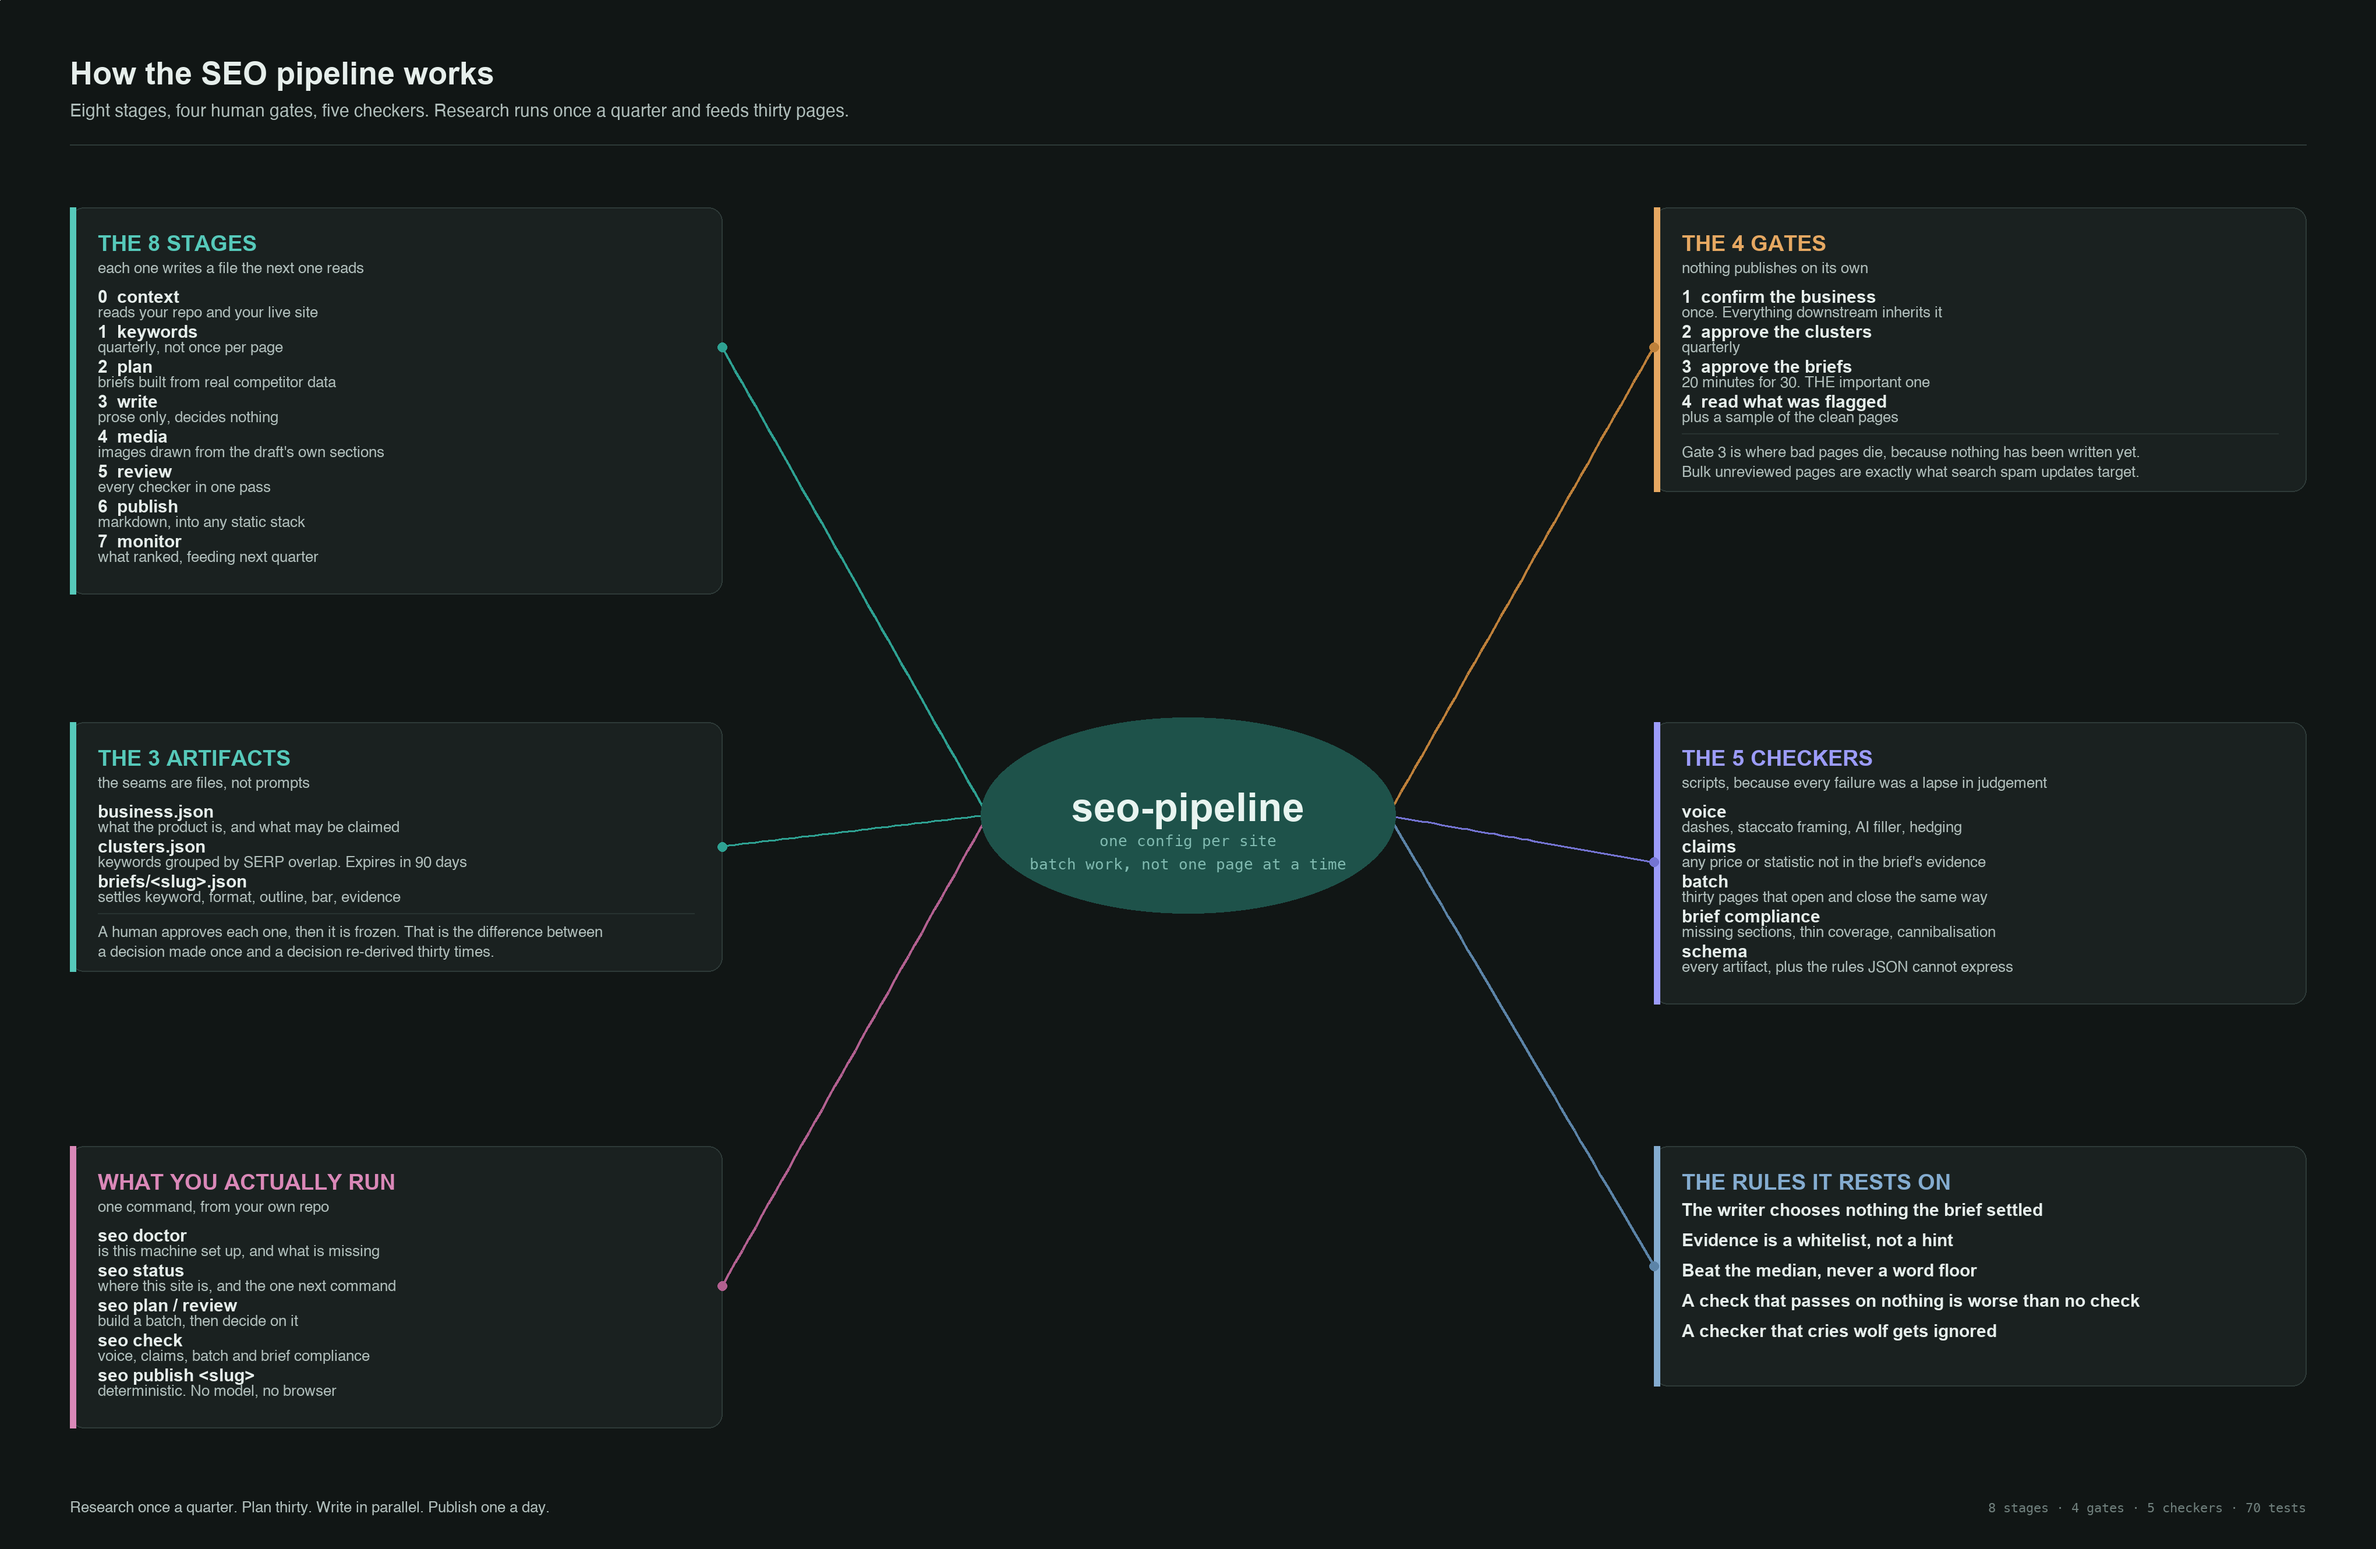
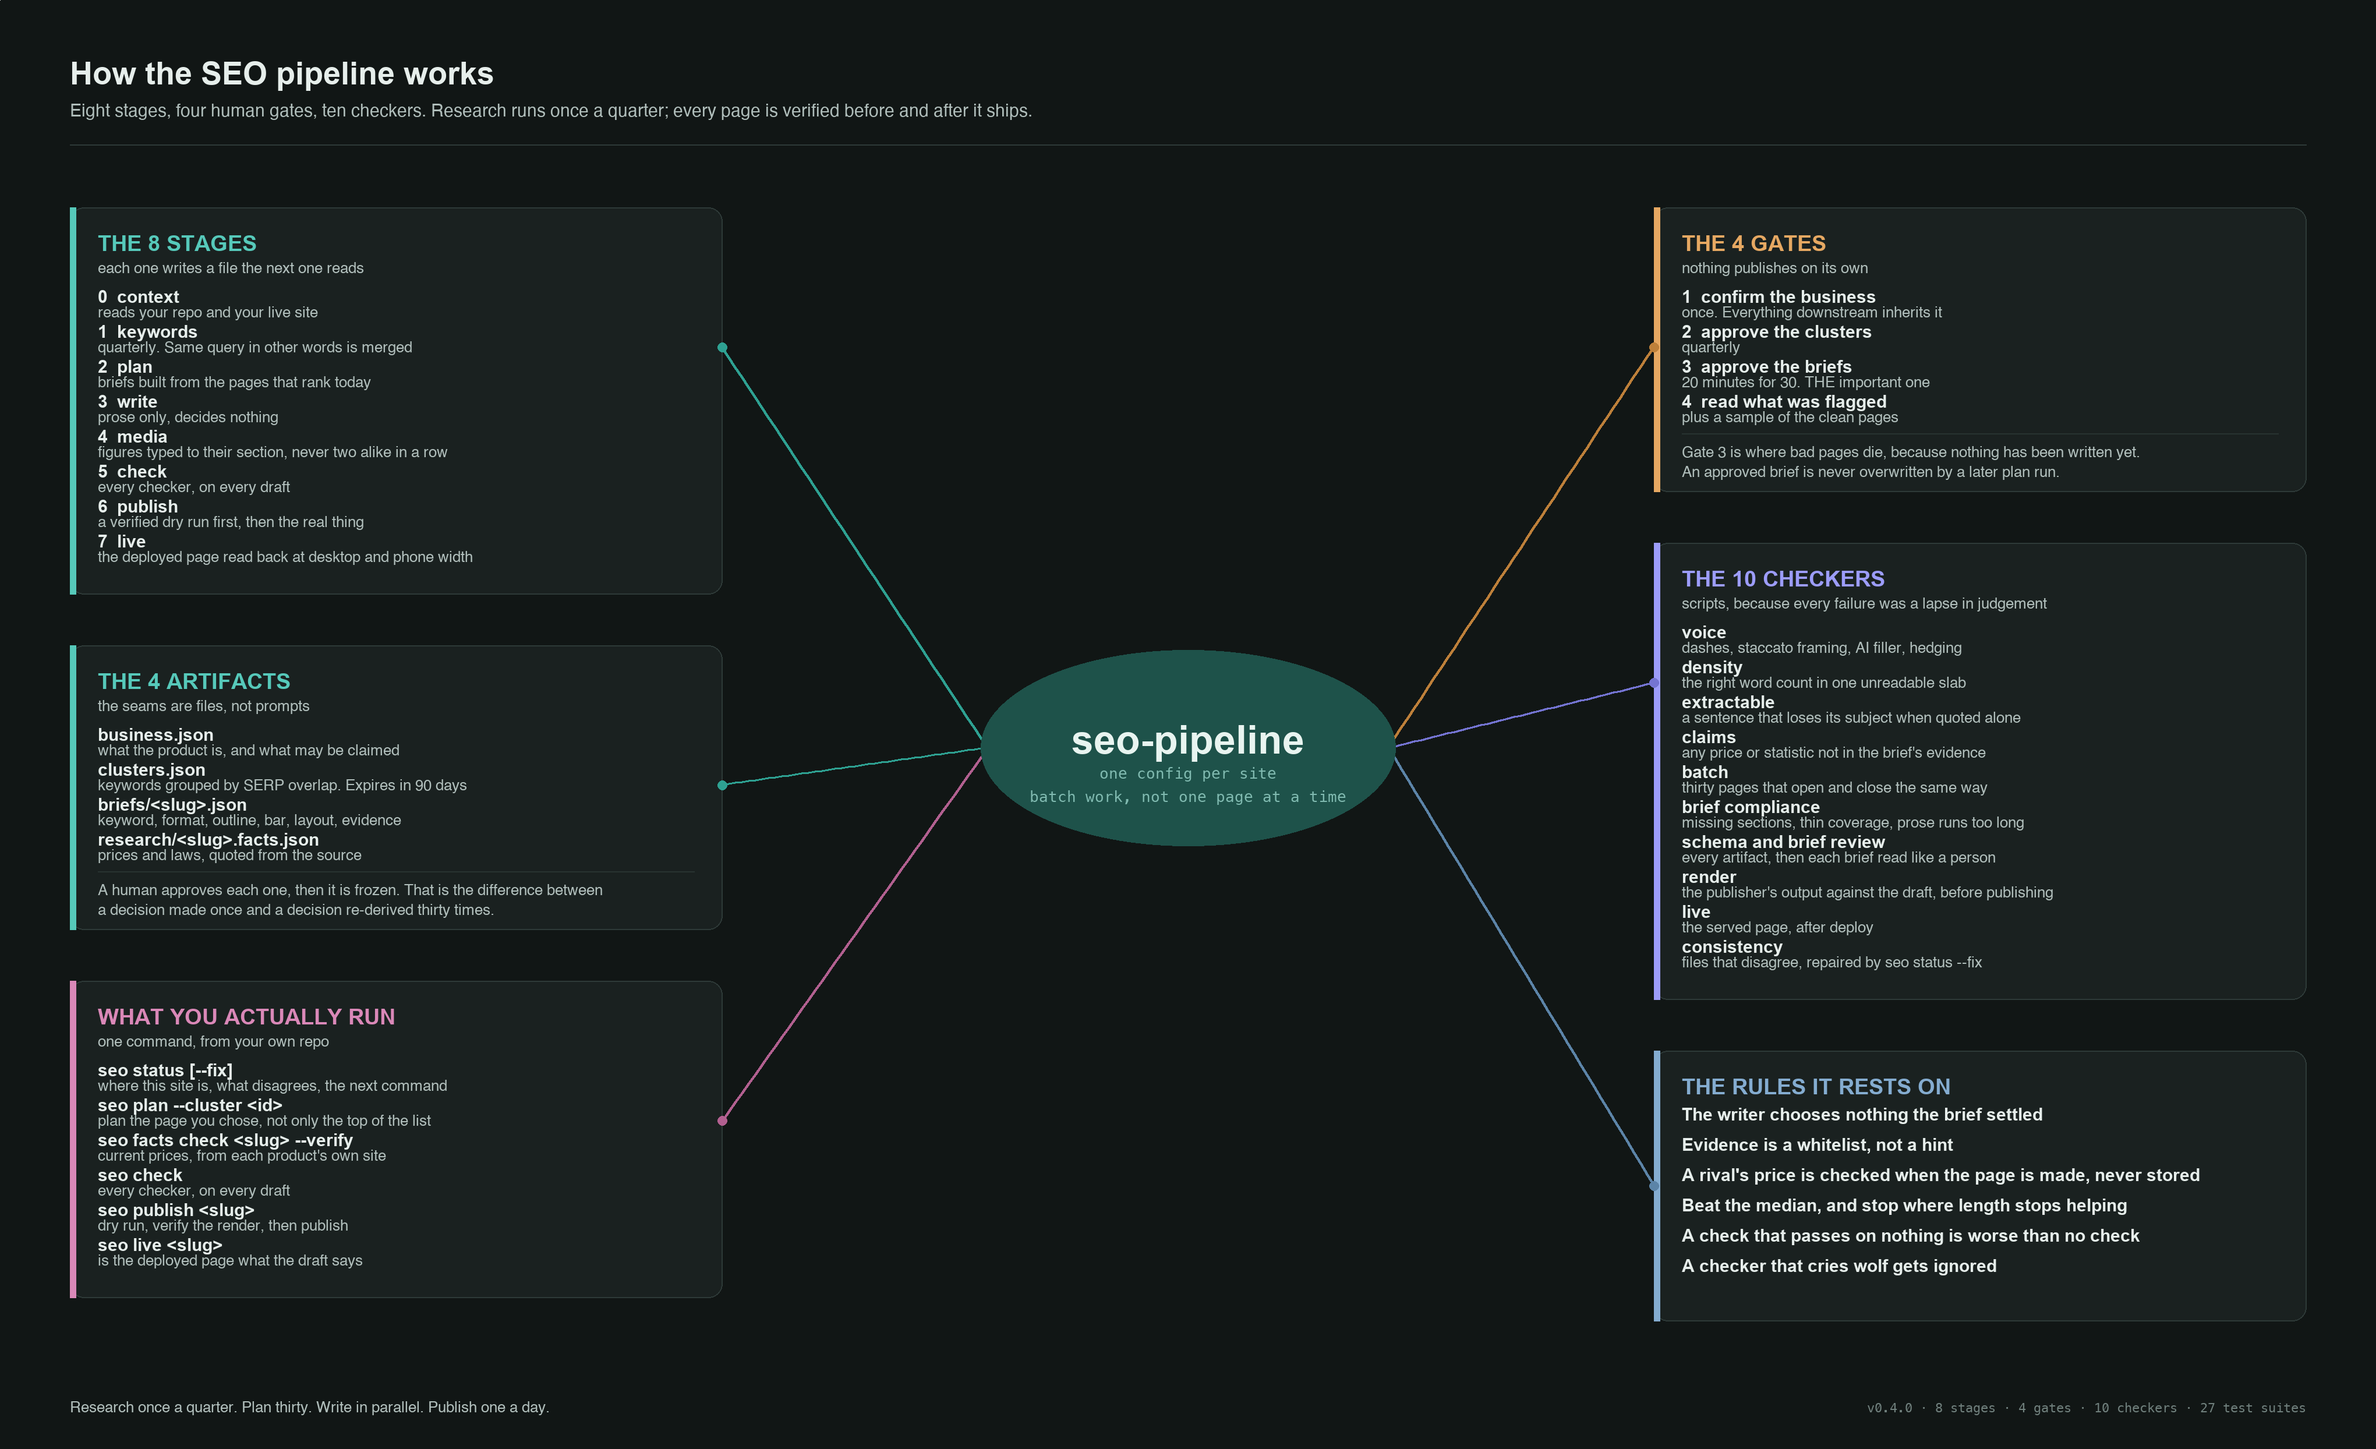
Mind map for 0.4.0: live stage, facts artifact, ten checkers, boxes stack by height

diff --git a/docs/make_mindmap.py b/docs/make_mindmap.py
@@ -11,7 +11,7 @@ import sys
 from PIL import Image, ImageDraw, ImageFont
 
 S = 2
-W, H = 2040, 1330
+W = 2040
 DARK = "--dark" in sys.argv
 
 if DARK:
@@ -69,10 +69,6 @@ F_HUB, F_HUBSUB = f(ARIB, 34), f(MONO, 13)
 F_BR, F_ITEM, F_SUB, F_NOTE = f(ARIB, 19), f(ARIB, 15), f(HEL, 13), f(HEL, 13)
 F_TITLE, F_LEAD, F_TAG = f(ARIB, 27), f(HEL, 15), f(MONO, 11)
 
-img = Image.new("RGB", (W * S, H * S), PAPER)
-d = ImageDraw.Draw(img)
-
-
 def rect(x, y, w, h, fill=None, outline=None, width=1.2, r=10):
     d.rounded_rectangle([x * S, y * S, (x + w) * S, (y + h) * S], radius=r * S,
                         fill=fill, outline=outline, width=max(1, int(width * S)))
@@ -94,63 +90,101 @@ def curve(p0, p1, p2, color, width=2.2):
                pts[-1][0] + 4 * S, pts[-1][1] + 4 * S], fill=color)
 
 
-# ── header ────────────────────────────────────────────────────────────────
-text(60, 48, "How the SEO pipeline works", F_TITLE, INK)
-text(60, 88, "Eight stages, four human gates, five checkers. Research runs once a quarter and feeds thirty pages.",
-     F_LEAD, MUTED)
-d.line([60 * S, 124 * S, (W - 60) * S, 124 * S], fill=EDGE, width=1 * S)
-
 # ── branches ──────────────────────────────────────────────────────────────
-BRANCHES = [
-    # (x, y, w, colour, title, tagline, [(item, detail)], footnote)
-    (60, 178, 560, TEAL, "THE 8 STAGES", "each one writes a file the next one reads", [
+# Each column stacks its boxes by their real height, so a longer list moves the
+# boxes below it instead of running into them.
+LEFT = [
+    # (colour, title, tagline, [(item, detail)], footnote)
+    (TEAL, "THE 8 STAGES", "each one writes a file the next one reads", [
         ("0  context", "reads your repo and your live site"),
-        ("1  keywords", "quarterly, not once per page"),
-        ("2  plan", "briefs built from real competitor data"),
+        ("1  keywords", "quarterly. Same query in other words is merged"),
+        ("2  plan", "briefs built from the pages that rank today"),
         ("3  write", "prose only, decides nothing"),
-        ("4  media", "images drawn from the draft's own sections"),
-        ("5  review", "every checker in one pass"),
-        ("6  publish", "markdown, into any static stack"),
-        ("7  monitor", "what ranked, feeding next quarter"),
+        ("4  media", "figures typed to their section, never two alike in a row"),
+        ("5  check", "every checker, on every draft"),
+        ("6  publish", "a verified dry run first, then the real thing"),
+        ("7  live", "the deployed page read back at desktop and phone width"),
     ], None),
-    (60, 620, 560, TEAL, "THE 3 ARTIFACTS", "the seams are files, not prompts", [
+    (TEAL, "THE 4 ARTIFACTS", "the seams are files, not prompts", [
         ("business.json", "what the product is, and what may be claimed"),
         ("clusters.json", "keywords grouped by SERP overlap. Expires in 90 days"),
-        ("briefs/<slug>.json", "settles keyword, format, outline, bar, evidence"),
-    ], "A human approves each one, then it is frozen. That is the difference between\na decision made once and a decision re-derived thirty times."),
-    (60, 984, 560, PLUM, "WHAT YOU ACTUALLY RUN", "one command, from your own repo", [
-        ("seo doctor", "is this machine set up, and what is missing"),
-        ("seo status", "where this site is, and the one next command"),
-        ("seo plan / review", "build a batch, then decide on it"),
-        ("seo check", "voice, claims, batch and brief compliance"),
-        ("seo publish <slug>", "deterministic. No model, no browser"),
+        ("briefs/<slug>.json", "keyword, format, outline, bar, layout, evidence"),
+        ("research/<slug>.facts.json", "prices and laws, quoted from the source"),
+    ], "A human approves each one, then it is frozen. That is the difference between\n"
+       "a decision made once and a decision re-derived thirty times."),
+    (PLUM, "WHAT YOU ACTUALLY RUN", "one command, from your own repo", [
+        ("seo status [--fix]", "where this site is, what disagrees, the next command"),
+        ("seo plan --cluster <id>", "plan the page you chose, not only the top of the list"),
+        ("seo facts check <slug> --verify", "current prices, from each product's own site"),
+        ("seo check", "every checker, on every draft"),
+        ("seo publish <slug>", "dry run, verify the render, then publish"),
+        ("seo live <slug>", "is the deployed page what the draft says"),
     ], None),
-    (1420, 178, 560, AMBER, "THE 4 GATES", "nothing publishes on its own", [
+]
+RIGHT = [
+    (AMBER, "THE 4 GATES", "nothing publishes on its own", [
         ("1  confirm the business", "once. Everything downstream inherits it"),
         ("2  approve the clusters", "quarterly"),
         ("3  approve the briefs", "20 minutes for 30. THE important one"),
         ("4  read what was flagged", "plus a sample of the clean pages"),
-    ], "Gate 3 is where bad pages die, because nothing has been written yet.\nBulk unreviewed pages are exactly what search spam updates target."),
-    (1420, 620, 560, INDIGO, "THE 5 CHECKERS", "scripts, because every failure was a lapse in judgement", [
+    ], "Gate 3 is where bad pages die, because nothing has been written yet.\n"
+       "An approved brief is never overwritten by a later plan run."),
+    (INDIGO, "THE 10 CHECKERS", "scripts, because every failure was a lapse in judgement", [
         ("voice", "dashes, staccato framing, AI filler, hedging"),
+        ("density", "the right word count in one unreadable slab"),
+        ("extractable", "a sentence that loses its subject when quoted alone"),
         ("claims", "any price or statistic not in the brief's evidence"),
         ("batch", "thirty pages that open and close the same way"),
-        ("brief compliance", "missing sections, thin coverage, cannibalisation"),
-        ("schema", "every artifact, plus the rules JSON cannot express"),
+        ("brief compliance", "missing sections, thin coverage, prose runs too long"),
+        ("schema and brief review", "every artifact, then each brief read like a person"),
+        ("render", "the publisher's output against the draft, before publishing"),
+        ("live", "the served page, after deploy"),
+        ("consistency", "files that disagree, repaired by seo status --fix"),
     ], None),
-    (1420, 984, 560, STEEL, "THE RULES IT RESTS ON", "", [
+    (STEEL, "THE RULES IT RESTS ON", "", [
         ("The writer chooses nothing the brief settled", ""),
         ("Evidence is a whitelist, not a hint", ""),
-        ("Beat the median, never a word floor", ""),
+        ("A rival's price is checked when the page is made, never stored", ""),
+        ("Beat the median, and stop where length stops helping", ""),
         ("A check that passes on nothing is worse than no check", ""),
         ("A checker that cries wolf gets ignored", ""),
     ], None),
 ]
 
+TOP, GAP = 178, 44
+
+
+def height(tag, items, note):
+    ih = 30 if any(s for _, s in items) else 26
+    return 62 + (16 if tag else 0) + len(items) * ih + (46 if note else 14)
+
+
+def column(branches, x):
+    out, y = [], TOP
+    for col, title, tag, items, note in branches:
+        out.append((x, y, 560, col, title, tag, items, note))
+        y += height(tag, items, note) + GAP
+    return out, y - GAP
+
+
+left, lb = column(LEFT, 60)
+right, rb = column(RIGHT, 1420)
+BRANCHES = left + right
+H = max(lb, rb) + 110
+
+img = Image.new("RGB", (W * S, H * S), PAPER)
+d = ImageDraw.Draw(img)
+
+# ── header ────────────────────────────────────────────────────────────────
+text(60, 48, "How the SEO pipeline works", F_TITLE, INK)
+text(60, 88, "Eight stages, four human gates, ten checkers. Research runs once a quarter; "
+     "every page is verified before and after it ships.", F_LEAD, MUTED)
+d.line([60 * S, 124 * S, (W - 60) * S, 124 * S], fill=EDGE, width=1 * S)
+
 boxes = []
 for x, y, w, col, title, tag, items, note in BRANCHES:
     ih = 30 if any(s for _, s in items) else 26
-    h = 62 + (16 if tag else 0) + len(items) * ih + (46 if note else 14)
+    h = height(tag, items, note)
     rect(x, y, w, h, fill=CARD, outline=EDGE, width=1.2, r=12)
     d.rectangle([x * S, y * S, (x + 5) * S, (y + h) * S], fill=col)
     text(x + 24, y + 20, title, F_BR, col)
@@ -171,7 +205,7 @@ for x, y, w, col, title, tag, items, note in BRANCHES:
     boxes.append((x, y, w, h, col))
 
 # ── hub ───────────────────────────────────────────────────────────────────
-CX, CY, RX, RY = W / 2, 700, 178, 84
+CX, CY, RX, RY = W / 2, H / 2 + 20, 178, 84
 for x, y, w, h, col in boxes:
     left = x > CX
     ex, ey = (x if left else x + w), y + min(h / 2, 120)
@@ -186,7 +220,7 @@ text(CX, CY - 26, "seo-pipeline", F_HUB, HUBTX, anchor="ma")
 text(CX, CY + 14, "one config per site", F_HUBSUB, HUBSUB, anchor="ma")
 text(CX, CY + 34, "batch work, not one page at a time", F_HUBSUB, HUBSUB, anchor="ma")
 
-text(W - 60, H - 42, "8 stages · 4 gates · 5 checkers · 70 tests", F_TAG, FAINT, anchor="ra")
+text(W - 60, H - 42, "v0.4.0 · 8 stages · 4 gates · 10 checkers · 27 test suites", F_TAG, FAINT, anchor="ra")
 text(60, H - 42, "Research once a quarter. Plan thirty. Write in parallel. Publish one a day.",
      F_NOTE, MUTED)
 
